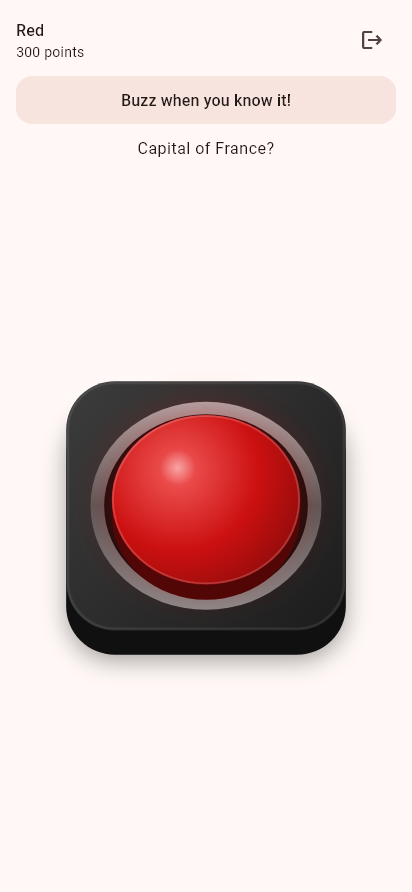
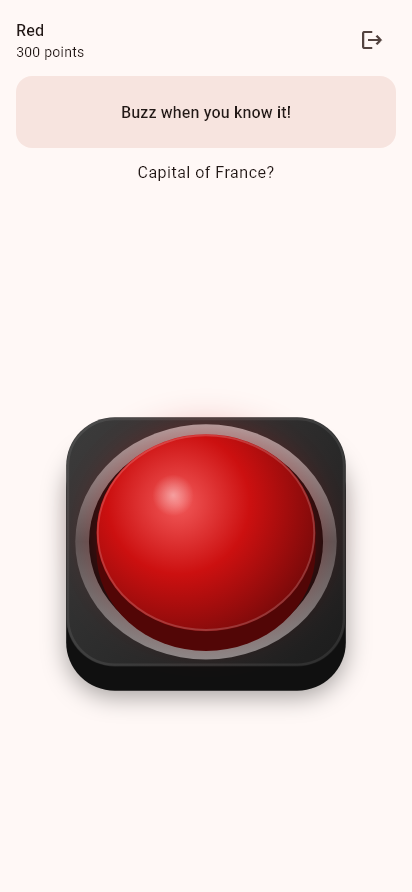
Buzzer: the box stays put, a bigger rounder cap, a buzz on every press, steady height
Only the cap goes down when pressed; the box no longer shrinks. The cap is
larger and shaded like a ball. Every press is felt, however short (Android
gets its stronger long-press buzz). The cap keeps its colour while held and
only turns grey when the buzzer is off. The status and the question each
have a fixed amount of room, so the buzzer stays at the same height while a
Fragenhagel moves from item to item.

Changed region(s): [[0.1456, 0.4238, 0.8738, 0.787], [0.2913, 0.0908, 0.699, 0.2119]]

diff --git a/lib/features/player/widgets/buzzer_button.dart b/lib/features/player/widgets/buzzer_button.dart
@@ -1,4 +1,5 @@
 import 'dart:async';
+import 'package:flutter/foundation.dart';
 import 'package:flutter/material.dart';
 import 'package:flutter/services.dart';
 
@@ -36,47 +37,34 @@ class BuzzerButton extends StatefulWidget {
   State<BuzzerButton> createState() => _BuzzerButtonState();
 }
 
-class _BuzzerButtonState extends State<BuzzerButton>
-    with SingleTickerProviderStateMixin {
+class _BuzzerButtonState extends State<BuzzerButton> {
   bool _isPressed = false;
   Timer? _vibrationTimer;
   int _vibrationCount = 0;
 
-  // ---------- press depth animation ----------
-  late final AnimationController _pressController;
-  late final Animation<double> _pressAnimation;
-
-  @override
-  void initState() {
-    super.initState();
-    _pressController = AnimationController(
-      vsync: this,
-      duration: const Duration(milliseconds: 80),
-    );
-    _pressAnimation = Tween<double>(begin: 1.0, end: 0.98).animate(
-      CurvedAnimation(parent: _pressController, curve: Curves.easeOut),
-    );
-  }
-
   @override
   void dispose() {
     _stopVibration();
-    _pressController.dispose();
     super.dispose();
   }
 
   // ------------------------------------------------------------------
-  // Haptics: initial strong impact, then fading buzzing while held
+  // Haptics: a strong buzz on touch, then fading pulses while held
   // ------------------------------------------------------------------
 
-  Future<void> _startVibration() async {
+  void _startVibration() {
     _vibrationCount = 0;
 
-    // Immediate heavy impact on touch-down
-    await HapticFeedback.heavyImpact();
+    // Felt on every press, however short. Android's "heavy impact" is a
+    // faint tick on many phones, so it gets the long-press buzz instead.
+    if (defaultTargetPlatform == TargetPlatform.android) {
+      HapticFeedback.vibrate();
+    } else {
+      HapticFeedback.heavyImpact();
+    }
 
     // Buzz pattern: fast at first, then slows and fades
-    _vibrationTimer = Timer.periodic(const Duration(milliseconds: 120), (_) async {
+    _vibrationTimer = Timer.periodic(const Duration(milliseconds: 120), (_) {
       if (!_isPressed) {
         _stopVibration();
         return;
@@ -87,9 +75,9 @@ class _BuzzerButtonState extends State<BuzzerButton>
       // Next 3: light (dying resonance)
       // After that: stop automatically
       if (_vibrationCount <= 3) {
-        await HapticFeedback.mediumImpact();
+        HapticFeedback.mediumImpact();
       } else if (_vibrationCount <= 6) {
-        await HapticFeedback.lightImpact();
+        HapticFeedback.lightImpact();
       } else {
         _stopVibration();
       }
@@ -108,22 +96,13 @@ class _BuzzerButtonState extends State<BuzzerButton>
   void _handlePointerDown(PointerDownEvent _) {
     if (!widget._isEnabled) return;
     setState(() => _isPressed = true);
-    _pressController.forward();
-    widget.onPressed?.call();
     _startVibration();
+    widget.onPressed?.call();
   }
 
-  void _handlePointerUp(PointerUpEvent _) {
+  void _release() {
     if (!_isPressed) return;
     setState(() => _isPressed = false);
-    _pressController.reverse();
-    _stopVibration();
-  }
-
-  void _handlePointerCancel(PointerCancelEvent _) {
-    if (!_isPressed) return;
-    setState(() => _isPressed = false);
-    _pressController.reverse();
     _stopVibration();
   }
 
@@ -133,24 +112,21 @@ class _BuzzerButtonState extends State<BuzzerButton>
 
   @override
   Widget build(BuildContext context) {
-    final bool enabled = widget._isEnabled;
     final double size = widget.size;
-
     return Listener(
       onPointerDown: _handlePointerDown,
-      onPointerUp: _handlePointerUp,
-      onPointerCancel: _handlePointerCancel,
-      child: ScaleTransition(
-        scale: _pressAnimation,
-        child: SizedBox(
-          width: size,
-          height: size,
-          child: CustomPaint(
-            painter: _BuzzerPainter(
-              isEnabled: enabled,
-              isPressed: _isPressed,
-              color: widget.color ?? _BuzzerPainter._defaultCap,
-            )
+      onPointerUp: (_) => _release(),
+      onPointerCancel: (_) => _release(),
+      // The box stays put; only the cap goes down.
+      child: SizedBox(
+        width: size,
+        height: size,
+        child: CustomPaint(
+          painter: _BuzzerPainter(
+            // Stays lit while held, even once the buzz has switched it off.
+            isEnabled: widget._isEnabled || _isPressed,
+            isPressed: _isPressed,
+            color: widget.color ?? _BuzzerPainter._defaultCap,
           ),
         ),
       ),
@@ -220,7 +196,7 @@ class _BuzzerPainter extends CustomPainter {
     Rect circle(double r, [double dy = 0]) => Rect.fromCenter(center: center + Offset(0, dy), width: r * 2, height: r * 2 * _tilt);
 
     // The collar the cap sits in: brushed metal around a dark well.
-    final collar = circle(w * 0.38);
+    final collar = circle(w * 0.43);
     canvas.drawOval(
       collar,
       Paint()
@@ -230,13 +206,13 @@ class _BuzzerPainter extends CustomPainter {
           colors: [Color(0xFFB0B0B0), Color(0xFF5A5A5A), Color(0xFF8C8C8C)],
         ).createShader(collar),
     );
-    canvas.drawOval(circle(w * 0.335), Paint()..color = const Color(0xFF0C0C0C));
+    canvas.drawOval(circle(w * 0.385), Paint()..color = const Color(0xFF0C0C0C));
 
     // The cap: its side shows below the top while up, and disappears into
     // the collar while pressed.
-    final r = w * 0.31;
-    final depth = isPressed ? h * 0.012 : h * 0.05;
-    final lift = isPressed ? 0.0 : -h * 0.02;
+    final r = w * 0.36;
+    final depth = isPressed ? h * 0.015 : h * 0.065;
+    final lift = isPressed ? h * 0.01 : -h * 0.03;
     final capSide = circle(r, lift + depth);
     final capTop = circle(r, lift);
     if (isEnabled && !isPressed) {
@@ -256,10 +232,11 @@ class _BuzzerPainter extends CustomPainter {
       capTop,
       Paint()
         ..shader = RadialGradient(
-          center: const Alignment(-0.3, -0.35),
-          radius: 0.95,
-          colors: [highlight, mid, dark],
-          stops: const [0.0, 0.5, 1.0],
+          // Shaded like a ball: light on the upper left, dark all round the edge.
+          center: const Alignment(-0.25, -0.3),
+          radius: 0.9,
+          colors: [highlight, mid, dark, side],
+          stops: const [0.0, 0.4, 0.82, 1.0],
         ).createShader(capTop),
     );
     // A glossy reflection on the upper left, and a faint rim of light.

diff --git a/lib/features/player/pages/player_page.dart b/lib/features/player/pages/player_page.dart
@@ -337,6 +337,65 @@ class _PlayerViewState extends State<PlayerView> {
       );
     }
 
+    if (kind == null) {
+      // The buzzer keeps its place while the lines above change, as they do
+      // with every Fragenhagel item: the status and the question each get
+      // room for as many lines as they may take.
+      final scaler = MediaQuery.textScalerOf(context);
+      double lines(TextStyle? style, int count) => scaler.scale(style?.fontSize ?? 16) * (style?.height ?? 1.2) * count;
+      final statusStyle = theme.textTheme.titleMedium;
+      final questionStyle = theme.textTheme.bodyLarge;
+      return Padding(
+        padding: const EdgeInsets.all(16),
+        child: Column(
+          children: [
+            teamLine,
+            const SizedBox(height: 12),
+            AnimatedContainer(
+              duration: const Duration(milliseconds: 200),
+              width: double.infinity,
+              height: lines(statusStyle, 2) + 24,
+              padding: const EdgeInsets.symmetric(horizontal: 12),
+              alignment: Alignment.center,
+              decoration: BoxDecoration(
+                color: highlighted ? scheme.primary : scheme.surfaceContainerHigh,
+                borderRadius: BorderRadius.circular(16),
+              ),
+              child: Text(
+                headline,
+                textAlign: TextAlign.center,
+                maxLines: 2,
+                overflow: TextOverflow.ellipsis,
+                style: statusStyle?.copyWith(color: highlighted ? scheme.onPrimary : null),
+              ),
+            ),
+            const SizedBox(height: 12),
+            SizedBox(
+              height: lines(questionStyle, 3),
+              child: Align(
+                alignment: Alignment.topCenter,
+                child: Text(question, textAlign: TextAlign.center, maxLines: 3, overflow: TextOverflow.ellipsis, style: questionStyle),
+              ),
+            ),
+            if (!view.phoneBuzzer)
+              const Spacer()
+            else
+              Expanded(
+                child: Center(
+                  child: LayoutBuilder(
+                    builder: (context, box) => BuzzerButton(
+                      size: box.biggest.shortestSide * 0.8,
+                      onPressed: canBuzz ? _buzz : null,
+                      color: teamColor(team),
+                    ),
+                  ),
+                ),
+              ),
+          ],
+        ),
+      );
+    }
+
     return Padding(
       padding: const EdgeInsets.all(16),
       child: Column(
@@ -345,29 +404,13 @@ class _PlayerViewState extends State<PlayerView> {
           const SizedBox(height: 12),
           statusBox,
           if (questionText != null) Padding(padding: const EdgeInsets.only(top: 12), child: questionText),
-          if (kind == null && !view.phoneBuzzer)
-            const Spacer()
-          else if (kind == null)
-            Expanded(
-              child: Center(
-                child: LayoutBuilder(
-                  builder: (context, box) => BuzzerButton(
-                    size: box.biggest.shortestSide * 0.8,
-                    onPressed: canBuzz ? _buzz : null,
-                    color: teamColor(team),
-                  ),
-                ),
-              ),
-            )
-          else ...[
-            ?_countdown(top: 12),
-            Expanded(
-              child: Padding(padding: const EdgeInsets.symmetric(vertical: 12), child: Center(child: _input(team))),
-            ),
-            _lockButton(team),
-            const SizedBox(height: 4),
-            _note(team),
-          ],
+          ?_countdown(top: 12),
+          Expanded(
+            child: Padding(padding: const EdgeInsets.symmetric(vertical: 12), child: Center(child: _input(team))),
+          ),
+          _lockButton(team),
+          const SizedBox(height: 4),
+          _note(team),
         ],
       ),
     );
